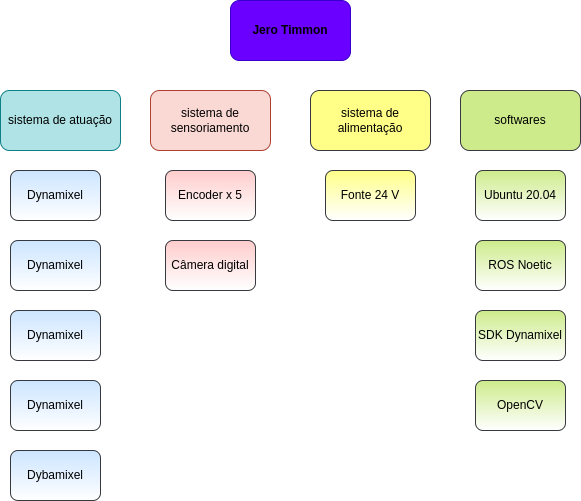
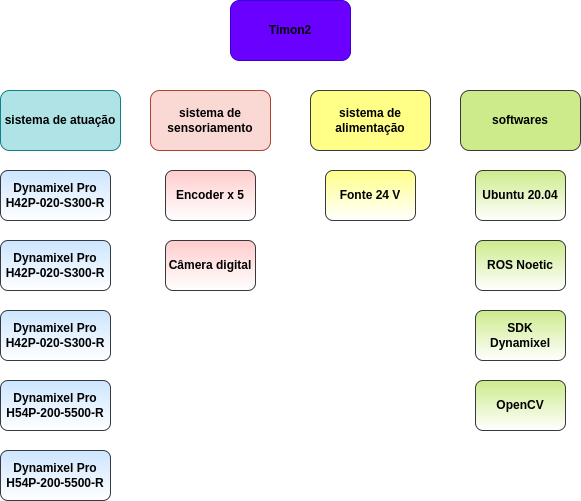
finish posts

diff --git a/project-timon2.md b/project-timon2.md
@@ -1,7 +1,7 @@
 ---
 layout: page
 title: Timon2
-subtitle: Agora
+subtitle: Timon@Noetic
 ---
 {% assign date_format = site.date_format | default: "%B %-d, %Y" %}
 {%- capture site_tags -%}
@@ -30,19 +30,18 @@ Braços manipuladores estão cada vez mais presentes na dinâmica humana. No uni
 
 
 
-O Projeto Timon2 tem por objetivo realizar uma operação completamente autônoma com o braço manipulador [JeRoTimon](https://braziliansinrobotics.com/project-jerotimon/), que foi desenvolvido em 2020 por um grupo de pesquisadores e especialista em robótica. A operação confere na busca e identificação de um marcador visual posicionado em uma caixa que está presente no ambiente, e após identificação, o robô deve pressionar o botão que também está alocado na caixa. Esta operação utiliza aplicações de **cinemática inversa**, que é crucial para a realização de operações autônomo com os braços manipuladores, **controle de trajetória e  posicionamento**, **visão computacional** e **integração de sistemas**.
+O Projeto Timon2 tem por objetivo realizar uma operação completamente autônoma com o braço manipulador [JeRoTimon](https://braziliansinrobotics.com/project-jerotimon/), que foi desenvolvido em 2020 por um grupo de pesquisadores e especialista em robótica. O JeRoTimon foi desenvolvido inicialmente para o ROS1 versão Melodic. A operação confere na busca e identificação de um marcador visual posicionado em uma caixa que está presente no ambiente, e após identificação, o robô deve pressionar o botão que também está alocado na caixa. Esta operação utiliza aplicações de **cinemática inversa**, que é crucial para a realização de operações autônomo com os braços manipuladores, **controle de trajetória e  posicionamento**, **visão computacional** e **integração de sistemas**.
 
 
 ## Um pouco sobre o Timon2
-<p style="text-align: justify;">
 
-Timon2 foi inicializado em teve 18/02/2021. Este projeto foi dividido em 5 etapas: Conceitual, Design, Simulação, Integração e testes e conclusão. Estas etapas foram montadas de acordo com Framework de projetos Robótica utilizado pelo RASC e considerando as principais etapas que devem ser executadas para garantir o sucesso do projeto.
 
-</p>
+Timon2 foi inicializado em teve 18/02/2022. Este projeto foi dividido em 5 etapas: Conceitual, Design, Simulação, Integração e testes e conclusão. Estas etapas foram montadas de acordo com Framework de projetos Robótica utilizado pelo RASC e considerando as principais etapas que devem ser executadas para garantir o sucesso do projeto.
+
 
 
 ## Sistemas do Timon2
-<p style="text-align: justify;">
+
 Quase todo sistema robótico pode ser fracionado em conjuntos menores.  Timon2 foi dividido  em 5 grupos: atuação, software, sensoriamento e alimentação. Esta fragmentação ajuda a visualização do robô diante de suas funcionalidades e dos sues equipamentos. O Prototype structure breakdown que apresenta a divisão do Timon2 em sistemas menores  e auxilia na visualização dos equipamentos.
 
 <center>
@@ -53,10 +52,12 @@ Quase todo sistema robótico pode ser fracionado em conjuntos menores.  Timon2 f
 
 O sistema mecânico é composto por 5 servomotores Dynamixel. Estes servomotores já possuem um controle de posição, trajetória e torque que foi implementado pelo seu desenvolvedor. O sistema de sensoriamento possui a câmera digital que será utilizada para detectar o marcador visual.
  
-Os softwares que permitem a realização da cinemática inversa, controle de trajetória e posição do manipulador estão presentes no pacote  Moveit, numa versão é designada para o  ROS1 versão Noetic que foi projetado para o Ubuntu 20.04.  O pacote de software possui uma interface com as linguagens de programação C++ e Python,  o que permite o uso de programas desenvolvidos em ambas línguas para realizar interação com o manipulador. No atual projeto a interface com braço robótico será realizada usando a linguagem C + +. Para fornecer energia para o sistema será usado uma fonte 24V.
+Os softwares que permitem a realização da cinemática inversa, controle de trajetória e posição do manipulador estão presentes no pacote  Moveit, numa versão é designada para o  ROS1 versão Noetic que foi projetado para o Ubuntu 20.04.  O pacote de software possui uma interface com as linguagens de programação C++ e Python,  o que permite o uso de programas desenvolvidos em ambas línguas para realizar interação com o manipulador. No atual projeto a interface com braço robótico será realizada usando a linguagem C ++. Para fornecer energia para o sistema será usado uma fonte 24V.
 
 
-O desenvolvimento deste projeto envolve áreas importantes de grande importância para robótica, principalmente a industrial. Brevemente teremos alguns post que demonstram a dinâmica das atividades que serão executadas para garantir o sucesso do projeto.
+
+
+O desenvolvimento deste projeto envolve áreas importantes de grande importância para robótica, principalmente a industrial. Brevemente teremos alguns posts que demonstram a dinâmica das atividades que serão executadas para garantir o sucesso do projeto.
 
 
 <br/>
@@ -97,24 +98,7 @@ O desenvolvimento deste projeto envolve áreas importantes de grande importânci
 </div>
 </div>
 
-<br>
 
-### Resumo do Projeto
-1. Categoria: 
-2. Prazo: 04 meses
-3. Data de início: <font color="#fbb117">10/maio/2021</font>
-4. Data de término: <font color="#fbb117">20/agosto/2021</font>
-5. Repositório URL: 
-6. Sponsor: <a href="http://www.senaicimatec.com.br/en/"><font color="#fbb117">Senai CIMATEC</font></a>
-7. Recursos materiais: US$
-8. Apresentação URL:
-9. Report URL: 
-10. Artigos relacionados: 
-
-<br>
-
-##### Referência
-1. <a href="https://jetbot.org/master"><font color="#fbb117">JETBOT</font></a>. Acesso em: 4 de Junho de 2021.
 
 
 
@@ -138,4 +122,4 @@ O desenvolvimento deste projeto envolve áreas importantes de grande importânci
           {%- endfor -%}
       </div>
   {%- endfor -%}
-</div>
+</div>âmica da
